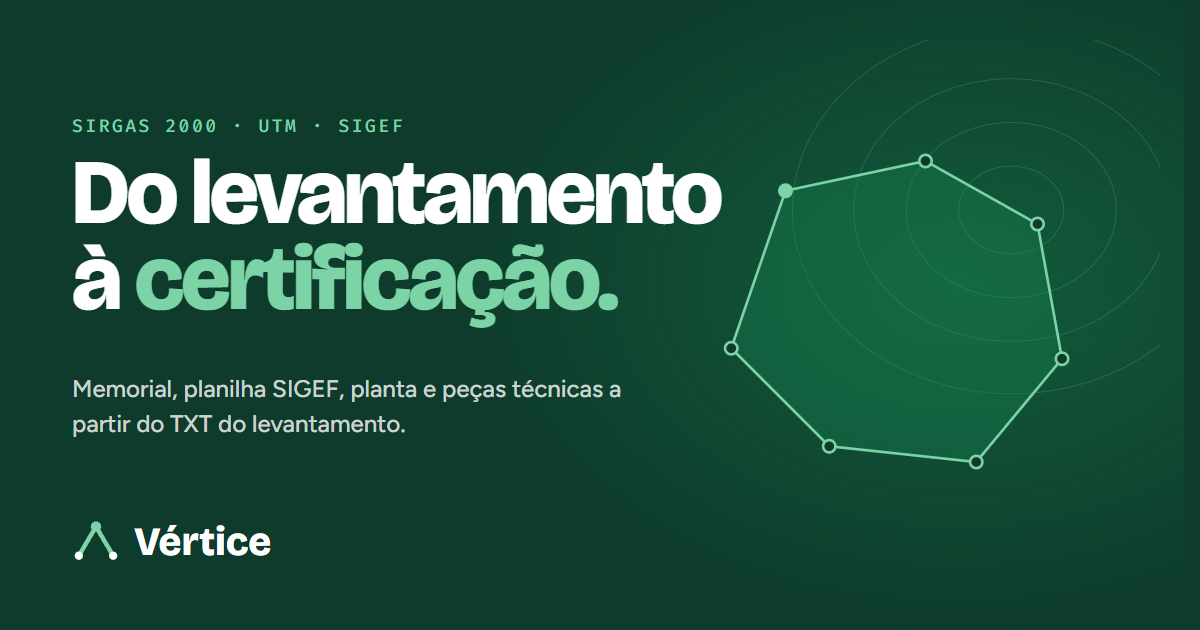
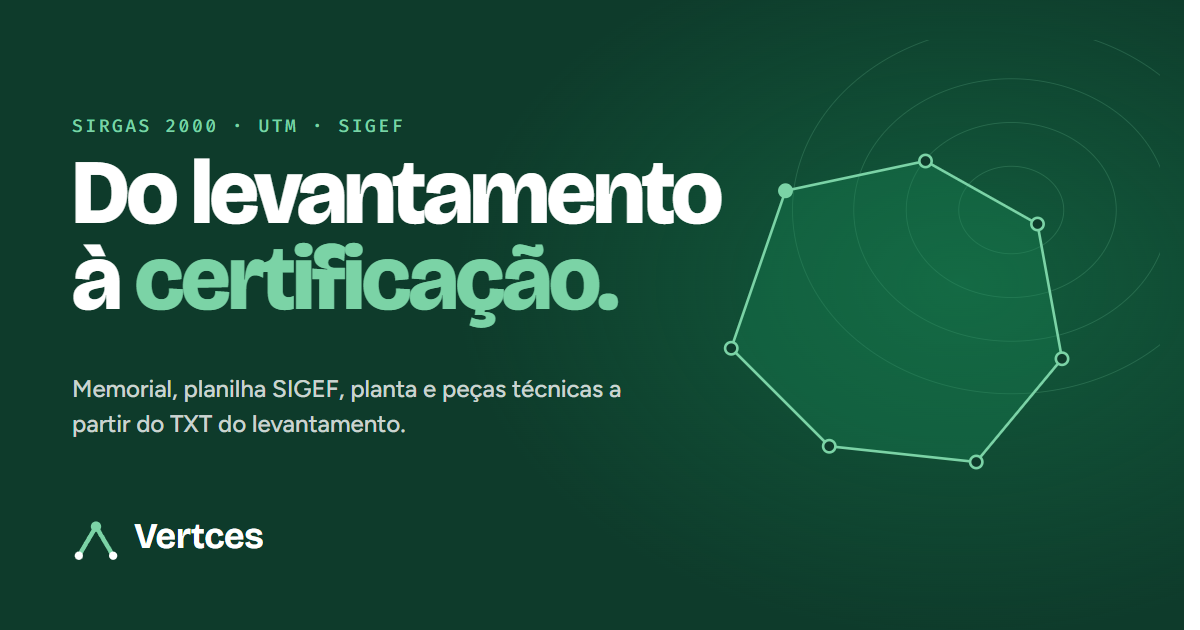
Marca Vertces e domínio vertces.com.br
- Nome do sistema trocado de "Vértice" para "Vertces" em todos os textos de
  marca (site público, sistema, painel SaaS, mensagens de acesso, termos,
  política de privacidade, guia, README, função equipe). O termo técnico
  "vértice" (M/P/V, vértice inicial, cabeçalhos de tabela) não muda.
- Guia da marca explica a origem do nome.
- Imagem de compartilhamento (og.png) com o nome novo; og:url, og:image
  absoluto e canonical em https://vertces.com.br/.

Changed region(s): [[0.9867, 0.0, 1.0, 1.0], [0.0925, 0.8143, 0.2467, 0.9048]]

diff --git a/index.html b/index.html
@@ -24,26 +24,28 @@
       })();
     </script>
     <meta name="viewport" content="width=device-width, initial-scale=1.0, viewport-fit=cover" />
-    <title>Vértice — georreferenciamento do levantamento à certificação</title>
+    <title>Vertces — georreferenciamento do levantamento à certificação</title>
     <meta name="description" content="Sistema web para escritórios de georreferenciamento: do TXT do receptor GNSS saem memorial descritivo, planilha SIGEF, planta A1/A3 com malha UTM e as peças técnicas. Loteamento, maquete 3D, divisão em partes iguais e CAR." />
     <meta name="theme-color" content="#0E3B2B" />
     <meta name="robots" content="index, follow" />
     <meta property="og:type" content="website" />
     <meta property="og:locale" content="pt_BR" />
-    <meta property="og:site_name" content="Vértice" />
-    <meta property="og:title" content="Vértice — do levantamento à certificação" />
+    <meta property="og:site_name" content="Vertces" />
+    <meta property="og:title" content="Vertces — do levantamento à certificação" />
     <meta property="og:description" content="Do TXT do levantamento ao memorial, planilha SIGEF, planta e peças técnicas. Loteamento com maquete 3D, divisão em partes iguais, CAR e sobreposição com o SIGEF." />
-    <meta property="og:image" content="/site/og.png" />
+    <meta property="og:url" content="https://vertces.com.br/" />
+    <meta property="og:image" content="https://vertces.com.br/site/og.png" />
     <meta property="og:image:width" content="1200" />
     <meta property="og:image:height" content="630" />
     <meta name="twitter:card" content="summary_large_image" />
+    <link rel="canonical" href="https://vertces.com.br/" />
     <link rel="icon" href="/favicon.svg" type="image/svg+xml" />
     <link rel="preconnect" href="https://fonts.googleapis.com" />
     <link rel="preconnect" href="https://fonts.gstatic.com" crossorigin />
     <link href="https://fonts.googleapis.com/css2?family=Figtree:wght@400;500;600;700&family=Bricolage+Grotesque:opsz,wght@12..96,500;12..96,600;12..96,700;12..96,800&family=Fira+Code:wght@400;500&display=swap" rel="stylesheet" />
     <link rel="stylesheet" href="/src/site/site.css" />
     <script type="application/ld+json">
-      {"@context":"https://schema.org","@type":"SoftwareApplication","name":"Vértice","applicationCategory":"BusinessApplication","operatingSystem":"Web","inLanguage":"pt-BR","description":"Sistema web de georreferenciamento: memorial descritivo, planilha SIGEF, planta com malha UTM, peças técnicas, loteamento com maquete 3D, divisão em partes iguais e CAR."}
+      {"@context":"https://schema.org","@type":"SoftwareApplication","name":"Vertces","applicationCategory":"BusinessApplication","operatingSystem":"Web","inLanguage":"pt-BR","description":"Sistema web de georreferenciamento: memorial descritivo, planilha SIGEF, planta com malha UTM, peças técnicas, loteamento com maquete 3D, divisão em partes iguais e CAR."}
     </script>
   </head>
   <body>
@@ -82,9 +84,9 @@
     <!-- ── topo ──────────────────────────────────────────────────────────── -->
     <header class="topo" data-topo>
       <div class="w topo-in">
-        <a class="logo" href="#inicio" aria-label="Vértice — início">
+        <a class="logo" href="#inicio" aria-label="Vertces — início">
           <svg viewBox="0 0 28 28" aria-hidden="true"><use href="#marca" /></svg>
-          <span>Vértice</span>
+          <span>Vertces</span>
         </a>
         <nav class="nav" aria-label="Seções">
           <a href="#como" data-cap="como">Como funciona</a>
@@ -122,7 +124,7 @@
               <span class="ln"><span style="--i:0">Do</span> <span style="--i:1">levantamento</span></span>
               <span class="ln"><span style="--i:2">à</span> <span class="real" style="--i:3">certificação.</span></span>
             </h1>
-            <p class="lead">O Vértice transforma o TXT do seu receptor GNSS em memorial descritivo, planilha SIGEF, planta com malha UTM e todas as peças técnicas. Conferido, padronizado e com a cara do seu escritório.</p>
+            <p class="lead">O Vertces transforma o TXT do seu receptor GNSS em memorial descritivo, planilha SIGEF, planta com malha UTM e todas as peças técnicas. Conferido, padronizado e com a cara do seu escritório.</p>
             <div class="acoes">
               <a class="bt bt-p bt-g" href="#contato">Agendar uma demonstração</a>
               <a class="bt bt-l" href="#como">Ver como funciona</a>
@@ -182,7 +184,7 @@
           </figure>
         </div>
 
-        <div class="faixa" aria-label="O que sai do Vértice">
+        <div class="faixa" aria-label="O que sai do Vertces">
           <div class="faixa-trilho">
             <ul>
               <li>Memorial descritivo</li><li>Planilha SIGEF (ODS)</li><li>Planta A1 e A3 em PDF</li><li>Quadro analítico</li><li>Cartas de anuência</li><li>Declarações e requerimento</li><li>Loteamento</li><li>Maquete 3D</li><li>KML · DXF · GLB</li><li>Shapefile para o SICAR</li>
@@ -258,7 +260,7 @@
               <p class="kicker">Como funciona</p>
               <h2 id="t-como" class="t2">Três passos. Do arquivo bruto ao processo pronto.</h2>
               <ol class="passos passos-num">
-                <li data-e="0"><b><em>01</em> Envie o TXT</b><span>O arquivo exportado do receptor GNSS/RTK, do jeito que sai do campo. O Vértice lê os pontos, detecta o fuso UTM e monta a poligonal.</span></li>
+                <li data-e="0"><b><em>01</em> Envie o TXT</b><span>O arquivo exportado do receptor GNSS/RTK, do jeito que sai do campo. O Vertces lê os pontos, detecta o fuso UTM e monta a poligonal.</span></li>
                 <li data-e="1"><b><em>02</em> Confira</b><span>O imóvel no mapa, com vértices, área e perímetro calculados no padrão do SIGEF e o confrontante de cada trecho. Ajuste antes de gerar.</span></li>
                 <li data-e="2"><b><em>03</em> Baixe os documentos</b><span>Memorial, planilha ODS, planta em PDF e as peças técnicas, com o logo e os modelos do seu escritório.</span></li>
               </ol>
@@ -317,7 +319,7 @@
           <header class="cab rv">
             <p class="kicker">Os serviços</p>
             <h2 id="t-serv" class="t2">Um sistema para cada tipo de trabalho do escritório.</h2>
-            <p class="lead">Do georreferenciamento comum à partilha entre herdeiros, do loteamento ao CAR. Escolha a modalidade e o Vértice monta o que ela pede.</p>
+            <p class="lead">Do georreferenciamento comum à partilha entre herdeiros, do loteamento ao CAR. Escolha a modalidade e o Vertces monta o que ela pede.</p>
           </header>
 
           <ol class="mods">
@@ -358,7 +360,7 @@
             </li>
             <li class="mod rv">
               <span class="mod-n">08</span>
-              <div class="mod-tx"><h3>Peças a partir do PDF do SIGEF</h3><p>Imóvel já certificado? Envie o PDF do SIGEF e o Vértice monta as peças e a planta pelo sistema.</p></div>
+              <div class="mod-tx"><h3>Peças a partir do PDF do SIGEF</h3><p>Imóvel já certificado? Envie o PDF do SIGEF e o Vertces monta as peças e a planta pelo sistema.</p></div>
               <svg class="mod-v v-pdf" viewBox="0 0 140 90" aria-hidden="true"><rect class="pg" x="12" y="14" width="40" height="54" rx="4" /><text x="32" y="46" text-anchor="middle">PDF</text><path class="seta" pathLength="1" d="M58 42H80" /><g class="pilha"><rect style="--i:2" x="90" y="22" width="34" height="46" rx="3" /><rect style="--i:1" x="96" y="18" width="34" height="46" rx="3" /><rect style="--i:0" x="102" y="14" width="34" height="46" rx="3" /></g></svg>
             </li>
           </ol>
@@ -498,7 +500,7 @@
           <div class="car-txt rv">
             <p class="kicker">CAR</p>
             <h2 id="t-car" class="t2">Do KML ao shapefile do SICAR.</h2>
-            <p class="lead">Envie o KML da área. O Vértice separa reserva legal, APP de rios e área produtiva e gera os shapefiles em SIRGAS 2000, prontos para o SICAR.</p>
+            <p class="lead">Envie o KML da área. O Vertces separa reserva legal, APP de rios e área produtiva e gera os shapefiles em SIRGAS 2000, prontos para o SICAR.</p>
             <ul class="camadas">
               <li style="--d:1.0s"><i class="sw sw-rio"></i>Rios e nascentes do traçado</li>
               <li style="--d:1.9s"><i class="sw sw-app"></i>APP de rios</li>
@@ -602,7 +604,7 @@
           <div class="pecas-txt rv">
             <p class="kicker">As peças técnicas</p>
             <h2 class="t2 t2-m">Matrícula ou posse. As peças saem junto com a planta.</h2>
-            <p class="lead">Na matrícula, o Vértice gera as 7 peças técnicas. Na posse, gera 4 peças e a planta em A3. Tudo com os modelos do seu escritório.</p>
+            <p class="lead">Na matrícula, o Vertces gera as 7 peças técnicas. Na posse, gera 4 peças e a planta em A3. Tudo com os modelos do seu escritório.</p>
           </div>
           <ul class="baralho rv" aria-label="As 7 peças técnicas">
             <li style="--i:0"><span>01</span>Memorial descritivo</li>
@@ -627,7 +629,7 @@
         <svg class="quem-marca" viewBox="0 0 28 28" aria-hidden="true"><use href="#marca" /></svg>
         <div class="w">
           <p class="kicker rv">Para quem é</p>
-          <h2 id="t-quem" class="sr">Para quem é o Vértice</h2>
+          <h2 id="t-quem" class="sr">Para quem é o Vertces</h2>
           <ul class="quem-lista" data-progresso>
             <li style="--i:0;--dir:-1"><b>Escritórios de georreferenciamento</b><span>equipe inteira no mesmo sistema</span></li>
             <li style="--i:1;--dir:1"><b>Agrimensores</b><span>do campo ao memorial no mesmo dia</span></li>
@@ -681,10 +683,10 @@
           </header>
           <div class="faq-lista">
             <details class="rv"><summary>Quanto custa?</summary><div class="faq-r"><p>O valor é definido em reunião, conforme o tamanho da equipe e os serviços que o escritório usa. Agende uma demonstração e montamos a proposta com você.</p></div></details>
-            <details class="rv"><summary>Preciso instalar alguma coisa?</summary><div class="faq-r"><p>Não. O Vértice é um sistema web: funciona no navegador, no computador do escritório ou de onde você estiver.</p></div></details>
+            <details class="rv"><summary>Preciso instalar alguma coisa?</summary><div class="faq-r"><p>Não. O Vertces é um sistema web: funciona no navegador, no computador do escritório ou de onde você estiver.</p></div></details>
             <details class="rv"><summary>Que arquivo eu envio?</summary><div class="faq-r"><p>O TXT do levantamento exportado do receptor GNSS/RTK, com os pontos e as coordenadas. Para imóvel já certificado, o PDF do SIGEF. Para o CAR, o KML da área.</p></div></details>
             <details class="rv"><summary>Atende o Brasil inteiro?</summary><div class="faq-r"><p>Sim. O motor trabalha em SIRGAS 2000, UTM fusos 18S a 25S, e detecta o fuso a partir das coordenadas.</p></div></details>
-            <details class="rv"><summary>Serve para posse, não só para matrícula?</summary><div class="faq-r"><p>Serve. Na posse, o Vértice gera 4 peças e a planta em A3. Na matrícula, as 7 peças técnicas.</p></div></details>
+            <details class="rv"><summary>Serve para posse, não só para matrícula?</summary><div class="faq-r"><p>Serve. Na posse, o Vertces gera 4 peças e a planta em A3. Na matrícula, as 7 peças técnicas.</p></div></details>
             <details class="rv"><summary>A conferência de área gasta numeração de vértice?</summary><div class="faq-r"><p>Não. A conferência de área é uma prévia de área e perímetro e não consome a numeração oficial.</p></div></details>
             <details class="rv"><summary>Os documentos saem com o meu logo e os meus modelos?</summary><div class="faq-r"><p>Saem. Cada escritório usa o próprio logo e os próprios modelos, e a planta pode ser ajustada no editor antes de baixar.</p></div></details>
             <details class="rv"><summary>Minha equipe pode usar junto?</summary><div class="faq-r"><p>Pode. O escritório tem vários operadores, cada um com o seu acesso, todos vendo os mesmos clientes e serviços.</p></div></details>
@@ -704,7 +706,7 @@
         <div class="w contato-in">
           <div class="contato-txt rv">
             <p class="kicker">Agende uma demonstração</p>
-            <h2 id="t-contato" class="t2">Veja o Vértice com um levantamento seu.</h2>
+            <h2 id="t-contato" class="t2">Veja o Vertces com um levantamento seu.</h2>
             <p class="lead">Numa reunião rápida mostramos o sistema funcionando, entendemos a rotina do escritório e definimos juntos o formato. O acesso é liberado depois do cadastro.</p>
             <ol class="etapas">
               <li><span>1</span>Você deixa o contato aqui.</li>
@@ -733,10 +735,10 @@
 
         <footer class="rod">
           <div class="w rod-in">
-            <a class="logo" href="#inicio" aria-label="Vértice — voltar ao início"><svg viewBox="0 0 28 28" aria-hidden="true"><use href="#marca" /></svg><span>Vértice</span></a>
+            <a class="logo" href="#inicio" aria-label="Vertces — voltar ao início"><svg viewBox="0 0 28 28" aria-hidden="true"><use href="#marca" /></svg><span>Vertces</span></a>
             <p>Georreferenciamento do levantamento à certificação.</p>
             <nav aria-label="Documentos legais"><a href="/app/#/termos">Termos de uso</a><a href="/app/#/privacidade">Privacidade</a></nav>
-            <p class="rod-c">© <span data-ano>2026</span> Vértice</p>
+            <p class="rod-c">© <span data-ano>2026</span> Vertces</p>
           </div>
         </footer>
       </section>

diff --git a/src/App.tsx b/src/App.tsx
@@ -123,8 +123,8 @@ export default function App() {
   if (import.meta.env.DEV && location.hash.startsWith("#/lab/casca")) return <Suspense fallback={null}><LaboratorioCasca /></Suspense>;
 
   // Páginas públicas: abrem com ou sem login (o link vai no cadastro e no site).
-  if (rota.t === "termos") return <PaginaDocumento texto={termos} voltar={{ rotulo: "Vértice", href: "#/" }} />;
-  if (rota.t === "privacidade") return <PaginaDocumento texto={privacidade} voltar={{ rotulo: "Vértice", href: "#/" }} />;
+  if (rota.t === "termos") return <PaginaDocumento texto={termos} voltar={{ rotulo: "Vertces", href: "#/" }} />;
+  if (rota.t === "privacidade") return <PaginaDocumento texto={privacidade} voltar={{ rotulo: "Vertces", href: "#/" }} />;
 
   if (!configOk) {
     return (
@@ -218,7 +218,7 @@ export default function App() {
             <div className="centro">
               <div>
                 <h2>{def.titulo} não está no seu plano</h2>
-                <p className="sub">Fale com o suporte do Vértice para incluir este serviço no plano da sua empresa.</p>
+                <p className="sub">Fale com o suporte do Vertces para incluir este serviço no plano da sua empresa.</p>
                 <button className="principal" onClick={() => ir({ t: "inicio" })}>Voltar ao início</button>
               </div>
             </div>
@@ -334,13 +334,13 @@ function EmpresaBloqueada({ nome, status }: { nome: string; status: string }) {
         {status === "desativado" ? (
           <>
             <h2 style={{ marginTop: 14 }}>Seu acesso foi desativado</h2>
-            <p>O responsável pela <b>{nome}</b> desativou o seu acesso ao Vértice. Fale com ele para reativar.</p>
+            <p>O responsável pela <b>{nome}</b> desativou o seu acesso ao Vertces. Fale com ele para reativar.</p>
           </>
         ) : (
           <>
             <h2 style={{ marginTop: 14 }}>Acesso {status === "cancelado" ? "encerrado" : "suspenso"}</h2>
-            <p>O acesso da <b>{nome}</b> ao Vértice está {status === "cancelado" ? "encerrado" : "suspenso"} no momento. Os seus dados continuam guardados.</p>
-            <p>Fale com o suporte do Vértice para reativar.</p>
+            <p>O acesso da <b>{nome}</b> ao Vertces está {status === "cancelado" ? "encerrado" : "suspenso"} no momento. Os seus dados continuam guardados.</p>
+            <p>Fale com o suporte do Vertces para reativar.</p>
           </>
         )}
         <button onClick={() => supabase.auth.signOut()}>Sair</button>

diff --git a/src/components/Marca.tsx b/src/components/Marca.tsx
@@ -1,4 +1,4 @@
-// Guia da marca Vértice: nome, símbolo, cores e tipografia — a página do
+// Guia da marca Vertces: nome, símbolo, cores e tipografia — a página do
 // protótipo, dentro do sistema, para quem for produzir material ou conferir
 // tokens sem abrir o arquivo de design.
 import { Logo } from "./Logo";
@@ -13,19 +13,19 @@ export function Marca() {
     <div className="pagina marca-guia fade">
       <div>
         <div className="sobretitulo">Identidade</div>
-        <h1 className="grande">Vértice</h1>
+        <h1 className="grande">Vertces</h1>
         <p className="lead">
-          Vértice é o ponto onde o perímetro muda de direção: o dado que o operador confere,
-          numera e certifica. É palavra do ofício, curta, sem tecnicismo de fornecedor e sem
-          descrever a ferramenta.
+          Vertces vem de vértice, o ponto onde o perímetro muda de direção: o dado que o operador
+          confere, numera e certifica. É palavra do ofício, curta, sem tecnicismo de fornecedor e
+          sem descrever a ferramenta. Endereço: vertces.com.br.
         </p>
       </div>
 
       <div className="grade-3">
         <div className="bloco nome-cartao">
           <div className="rotulo-secao">Escolhido</div>
-          <div className="nome-grande">Vértice</div>
-          <div className="sub">Ponto do perímetro. Sugere precisão e a unidade mínima do trabalho.</div>
+          <div className="nome-grande">Vertces</div>
+          <div className="sub">De vértice, o ponto do perímetro. Sugere precisão e a unidade mínima do trabalho.</div>
         </div>
         <div className="bloco nome-cartao alternativa">
           <div className="rotulo-secao">Alternativa</div>
@@ -43,7 +43,7 @@ export function Marca() {
         <div className="marca-simbolo">
           <div className="marca-lockup">
             <Logo size={44} />
-            <span>Vértice</span>
+            <span>Vertces</span>
           </div>
           <p>Símbolo: um vértice e seus dois vizinhos, o traço mínimo de uma poligonal. O ponto de destaque em verde-claro é o vértice ativo.</p>
           <p className="frase">Do levantamento à certificação.</p>

diff --git a/src/components/AppShell.tsx b/src/components/AppShell.tsx
@@ -52,7 +52,7 @@ function grupos(superadmin: boolean): { titulo: string; itens: Item[] }[] {
       ],
     },
   ];
-  if (superadmin) g.push({ titulo: "Vértice", itens: [{ t: "admin", rotulo: "Painel SaaS", icone: I.painel, destino: { t: "admin", aba: "visao" } }] });
+  if (superadmin) g.push({ titulo: "Vertces", itens: [{ t: "admin", rotulo: "Painel SaaS", icone: I.painel, destino: { t: "admin", aba: "visao" } }] });
   return g;
 }
 
@@ -95,7 +95,7 @@ export function AppShell({ rota, ir, children, usuario, superadmin }: {
     <>
       <button className="tr-marca" onClick={() => ir({ t: "inicio" })} title="Início">
         <Logo className="tr-logo" />
-        <span className="tr-rotulo tr-nome">Vértice</span>
+        <span className="tr-rotulo tr-nome">Vertces</span>
       </button>
       <nav className="tr-nav" aria-label="Navegação principal">
         {grupos(!!superadmin).map((g) => g.itens.length > 0 && (
@@ -136,7 +136,7 @@ export function AppShell({ rota, ir, children, usuario, superadmin }: {
 
       {/* celular: barra no topo + gaveta */}
       <header className="tr-topo">
-        <button className="tr-marca" onClick={() => ir({ t: "inicio" })}><Logo className="tr-logo" /><span className="tr-nome">Vértice</span></button>
+        <button className="tr-marca" onClick={() => ir({ t: "inicio" })}><Logo className="tr-logo" /><span className="tr-nome">Vertces</span></button>
         <button className="tr-menu" aria-label="Abrir menu" aria-expanded={gaveta} onClick={() => setGaveta(true)}><Ico d={I.menu} /></button>
       </header>
       {gaveta && (

diff --git a/src/components/Login.tsx b/src/components/Login.tsx
@@ -50,7 +50,7 @@ export function Login({ onOk, cadastroAberto = false }: { onOk: () => void; cada
   return (
     <div className="login">
       <div className="login-lado">
-        <div className="marca login-marca"><Logo size={28} /><span className="marca-nome">Vértice</span></div>
+        <div className="marca login-marca"><Logo size={28} /><span className="marca-nome">Vertces</span></div>
         <div>
           <h1>Do levantamento à certificação.</h1>
           <p>Memorial descritivo, planilha SIGEF, planta e as sete peças técnicas, gerados a partir do TXT da máquina.</p>
@@ -60,7 +60,7 @@ export function Login({ onOk, cadastroAberto = false }: { onOk: () => void; cada
       <div className="login-form">
         <div className="login-box">
           <h2>Entrar</h2>
-          <p>{cadastroAberto ? <>Ainda não tem conta? <a href="#/cadastro">Criar conta</a></> : "Use o e-mail e a senha da sua conta no Vértice."}</p>
+          <p>{cadastroAberto ? <>Ainda não tem conta? <a href="#/cadastro">Criar conta</a></> : "Use o e-mail e a senha da sua conta no Vertces."}</p>
           <form onSubmit={entrar}>
             <label>E-mail<input type="email" value={email} onChange={(e) => setEmail(e.target.value)} required autoComplete="username" /></label>
             <label>Senha<input type="password" value={senha} onChange={(e) => setSenha(e.target.value)} required autoComplete="current-password" /></label>

diff --git a/src/components/Configuracoes.tsx b/src/components/Configuracoes.tsx
@@ -264,7 +264,7 @@ function Modelos({ pasta }: { pasta: string }) {
       </header>
       {!pode && <p className="modo-leitura">Modo leitura. {SEM_PERMISSAO}</p>}
       <p className="sub modelos-nota">
-        Sem modelo próprio, o documento sai do modelo padrão do Vértice. Os campos do modelo seguem os mesmos marcadores do padrão — peça o pacote de modelos ao suporte para partir dele.
+        Sem modelo próprio, o documento sai do modelo padrão do Vertces. Os campos do modelo seguem os mesmos marcadores do padrão — peça o pacote de modelos ao suporte para partir dele.
       </p>
       <div className="tabela-wrap">
         {!existe ? <Esqueleto linhas={5} rotulo="Conferindo os modelos…" /> : (
@@ -274,7 +274,7 @@ function Modelos({ pasta }: { pasta: string }) {
               {MODELOS.map((m) => (
                 <tr key={m.arquivo}>
                   <td>{m.titulo}<div className="sub mono col-sec">{m.arquivo}</div></td>
-                  <td>{existe[m.arquivo] ? <span className="chip mod-completo">próprio</span> : <span className="sub">padrão do Vértice</span>}</td>
+                  <td>{existe[m.arquivo] ? <span className="chip mod-completo">próprio</span> : <span className="sub">padrão do Vertces</span>}</td>
                   {pode && (
                     <td className="acao">
                       <label className="botao-download botao-arquivo">

diff --git a/src/components/TrocarSenha.tsx b/src/components/TrocarSenha.tsx
@@ -43,7 +43,7 @@ export function TrocarSenhaObrigatoria({ email, onOk }: { email: string | null; 
       <div className="login-box esquerda">
         <Logo size={28} />
         <h2>Crie a sua senha</h2>
-        <p>Bem-vindo ao Vértice{email ? <>, <b>{email}</b></> : null}. Você entrou com a senha provisória do cadastro. Para continuar, crie uma senha só sua.</p>
+        <p>Bem-vindo ao Vertces{email ? <>, <b>{email}</b></> : null}. Você entrou com a senha provisória do cadastro. Para continuar, crie uma senha só sua.</p>
         <FormSenha onOk={onOk} rotulo="Salvar e entrar" />
         <p className="sub sair-link">
           <button type="button" className="link" onClick={() => supabase.auth.signOut()}>Sair e entrar com outra conta</button>
@@ -60,7 +60,7 @@ export function TrocarSenhaCartao() {
     <section className="bloco">
       <header>
         <h3>Senha de acesso</h3>
-        <span className="desc">a senha com que você entra no Vértice</span>
+        <span className="desc">a senha com que você entra no Vertces</span>
       </header>
       <div className="form-senha">
         <FormSenha onOk={() => setOk(true)} rotulo="Trocar senha" />

diff --git a/src/components/admin/PainelAdmin.tsx b/src/components/admin/PainelAdmin.tsx
@@ -56,7 +56,7 @@ const MENU: { secao: string; itens: { aba: AbaAdmin; rotulo: string; icone: stri
     secao: "Sistema",
     itens: [
       { aba: "config", rotulo: "Configurações", icone: ICO.config },
-      // só o superadmin: o guia da marca do Vértice não é assunto das empresas
+      // só o superadmin: o guia da marca do Vertces não é assunto das empresas
       { aba: "marca", rotulo: "Guia da marca", icone: ICO.marca },
     ],
   },
@@ -116,7 +116,7 @@ export function PainelAdmin({ aba, id, ir, email, temEscritorio }: {
       <aside className="sa-lateral" aria-label="Menu do painel">
         <div className="sa-marca">
           <Logo size={26} />
-          <div><b>Vértice</b><small>Painel SaaS</small></div>
+          <div><b>Vertces</b><small>Painel SaaS</small></div>
         </div>
         {MENU.map((g) => (
           <div key={g.secao} style={{ display: "contents" }}>

diff --git a/src/site/site.ts b/src/site/site.ts
@@ -1,4 +1,4 @@
-/* Página pública do Vértice: motor das cenas, navegação, perguntas e o
+/* Página pública do Vertces: motor das cenas, navegação, perguntas e o
  * formulário de reunião. TypeScript puro, sem dependências.
  *
  * Tudo aqui é aprimoramento: sem JS (ou com "reduzir movimento") o HTML já
@@ -337,7 +337,7 @@ $$("[data-ano]").forEach((el) => (el.textContent = String(new Date().getFullYear
   const valor = (nome: string) => (campo(nome)?.value || "").trim();
 
   function textoWa() {
-    const linhas = ["Olá! Quero agendar uma demonstração do Vértice."];
+    const linhas = ["Olá! Quero agendar uma demonstração do Vertces."];
     const nome = valor("nome");
     const emp = valor("empresa");
     const cid = valor("cidade_uf");

diff --git a/src/components/Cadastro.tsx b/src/components/Cadastro.tsx
@@ -45,7 +45,7 @@ export function Cadastro() {
   return (
     <div className="login">
       <div className="login-lado">
-        <div className="marca" style={{ padding: 0 }}><Logo size={28} /><span className="marca-nome" style={{ fontSize: 20 }}>Vértice</span></div>
+        <div className="marca" style={{ padding: 0 }}><Logo size={28} /><span className="marca-nome" style={{ fontSize: 20 }}>Vertces</span></div>
         <div>
           <h1>Do levantamento à certificação.</h1>
           <p>Crie a conta do seu escritório e gere o primeiro memorial a partir do TXT do receptor.</p>

diff --git a/src/lib/loteamento/planta.ts b/src/lib/loteamento/planta.ts
@@ -91,7 +91,7 @@ export function escalaPara(res: Resultado, folha: Folha): number {
 export async function gerarPlantaPdf(res: Resultado, pr: Projeto, perimetro: Perimetro, c: DadosCarimbo, folha: Folha = "A1"): Promise<Uint8Array> {
   const pdf = await PDFDocument.create();
   pdf.setTitle(T(`Planta do loteamento ${pr.nome}`));
-  pdf.setCreator("Vértice");
+  pdf.setCreator("Vertces");
   const fonte = await pdf.embedFont(StandardFonts.Helvetica);
   const negrito = await pdf.embedFont(StandardFonts.HelveticaBold);
   let logo: PDFImage | null = null;

diff --git a/src/lib/equipe.ts b/src/lib/equipe.ts
@@ -70,7 +70,7 @@ export const apagarConta = (user_id: string) => chamarFuncao<{ ok: true }>("equi
 export function mensagemDeAcesso(o: { nome: string; empresa: string; login: string; senha: string }): string {
   const primeiro = o.nome.split(/\s+/)[0] || "";
   return [
-    `Olá${primeiro ? `, ${primeiro}` : ""}! Seu acesso ao Vértice (${o.empresa}) está pronto.`,
+    `Olá${primeiro ? `, ${primeiro}` : ""}! Seu acesso ao Vertces (${o.empresa}) está pronto.`,
     ``,
     `Endereço: ${location.origin}/app/`,
     `Login: ${o.login}`,
